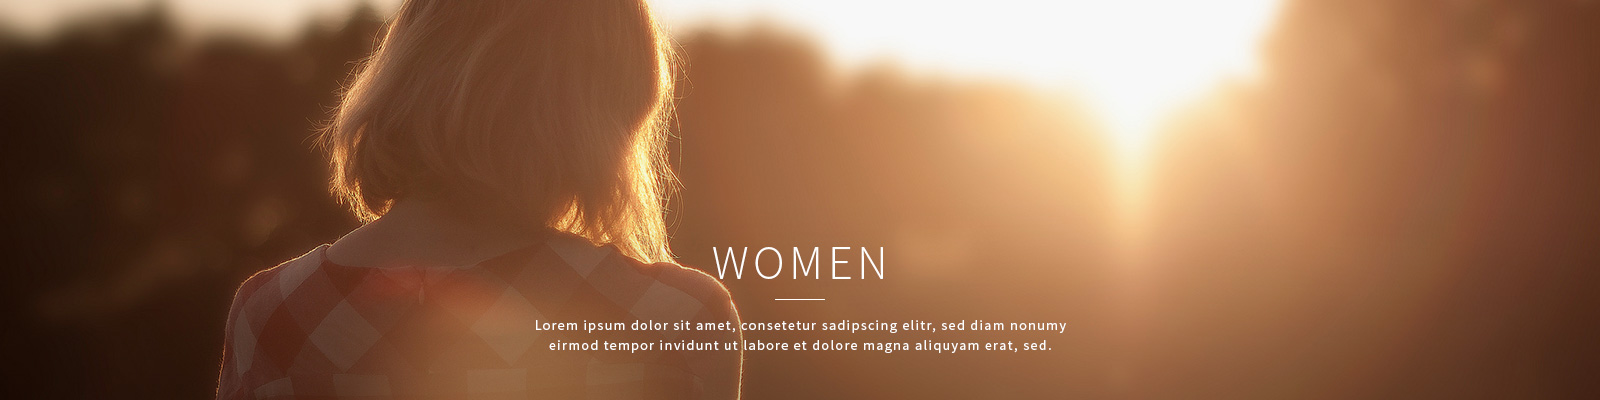
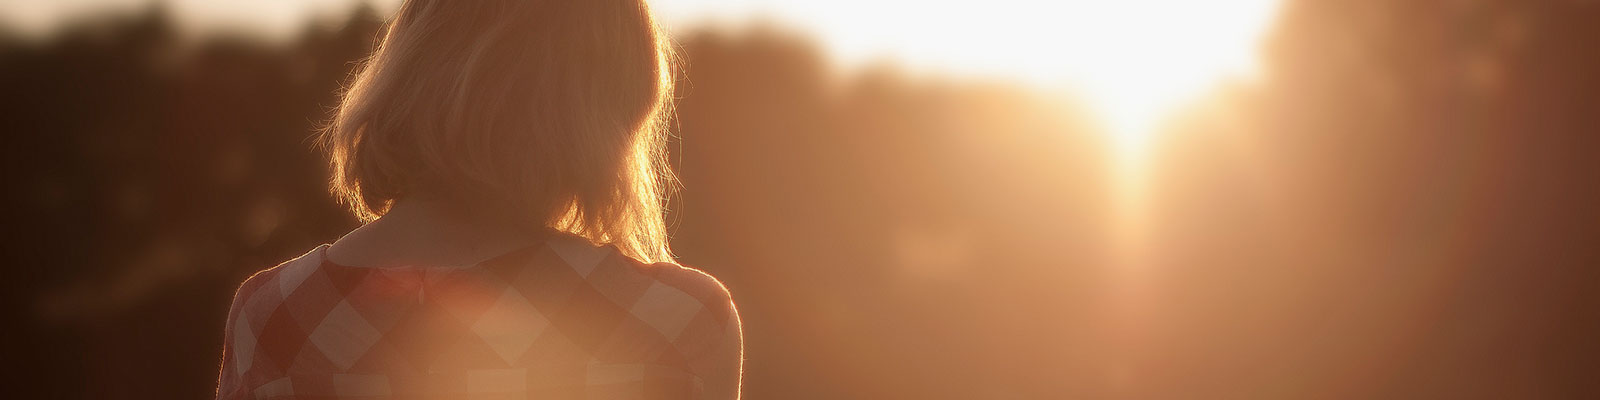
SUN-29

Changed region(s): [[0.2188, 0.75, 0.9062, 1.0], [0.4375, 0.6, 0.5625, 0.69]]

diff --git a/input/assets/css/_banners.scss b/input/assets/css/_banners.scss
@@ -1,0 +1,86 @@
+figure.figure-banner {
+
+  position: relative;
+
+  figcaption.figcaption-banner-text {
+
+    width: 100%;
+    position: absolute;
+    bottom: 10px;
+    text-align: center;
+    color: $white;
+    transform: translateX(-50%);
+    -webkit-transform: translateX(-50%);
+    left: 50%;
+    width: 90%;
+
+    @media screen and (min-width: 768px) {
+      bottom: 20px;
+      max-width: 500px;
+    }
+
+    h2::after {
+      background: $white;
+    }
+  }
+}
+
+.container .jumbotron, .container-fluid .jumbotron {
+  background: none;
+  border-radius: 0;
+  border: solid 1px $lighter-steel;
+  margin-bottom: 0;
+  color: $dark-grey;
+  padding-left: 20px;
+  padding-right: 20px;
+
+  @media screen and (min-width: 768px) {
+    padding-left: 150px;
+    padding-right: 150px;
+  }
+
+  h2 {
+    color: $black;
+
+    &::after {
+      background: $dark-grey;
+    }
+  }
+}
+
+figure.figure-banner figcaption.figcaption-banner-text,
+.container .jumbotron, .container-fluid .jumbotron {
+
+  h2 {
+    font-size: 36px;
+    font-weight: 300;
+    margin-top: 0;
+
+    &::after {
+      content: "";
+      width: 55px;
+      height: 1px;
+      display: block;
+      margin: 10px auto;
+    }
+
+    @media screen and (min-width: 768px) {
+      font-size: 48px;
+    }
+  }
+
+  h3 {
+    font-size: 14px;
+    text-transform: none;
+    font-weight: 400;
+    line-height: 150%;
+    margin-top: 10px;
+  }
+
+  p {
+    text-transform: uppercase;
+    font-size: 14px;
+    font-weight: 400;
+    margin-bottom: 5px;
+  }
+}
